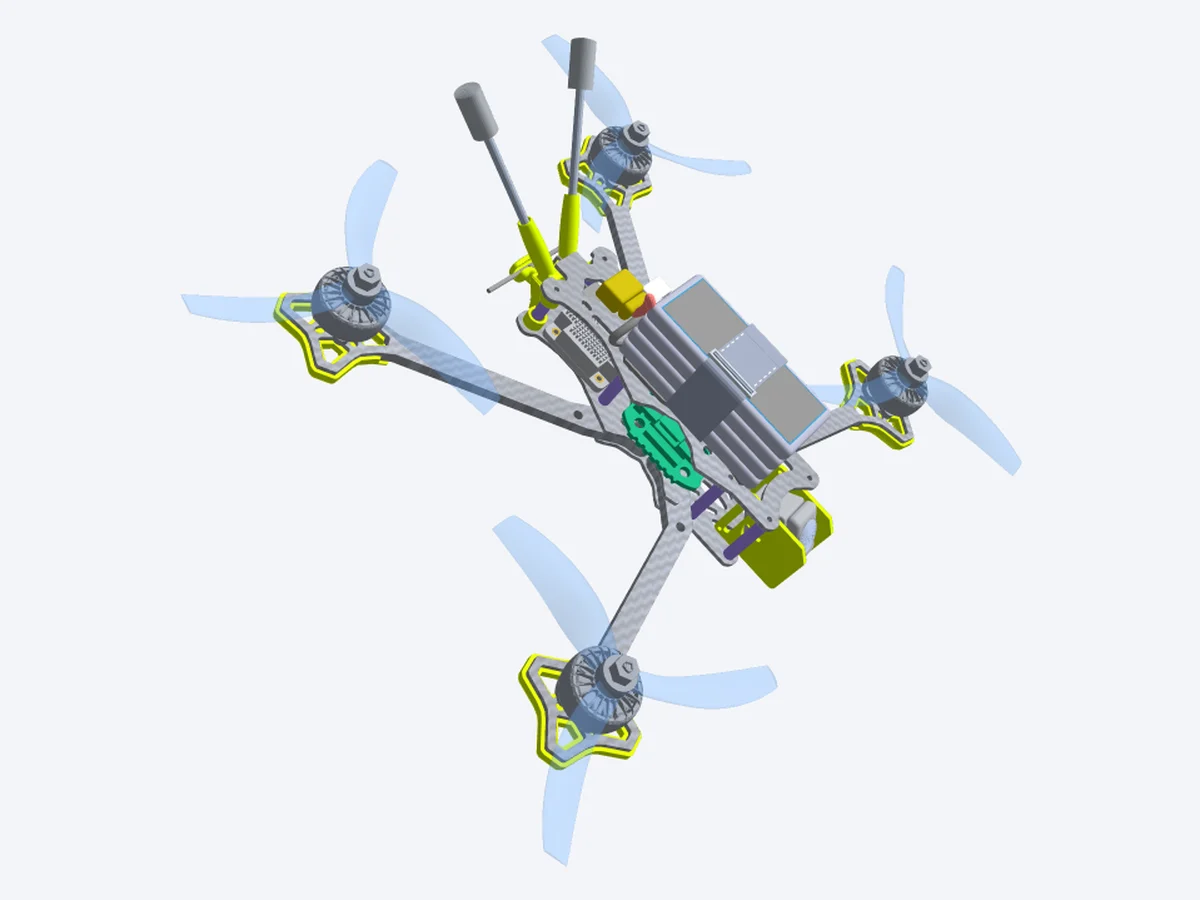
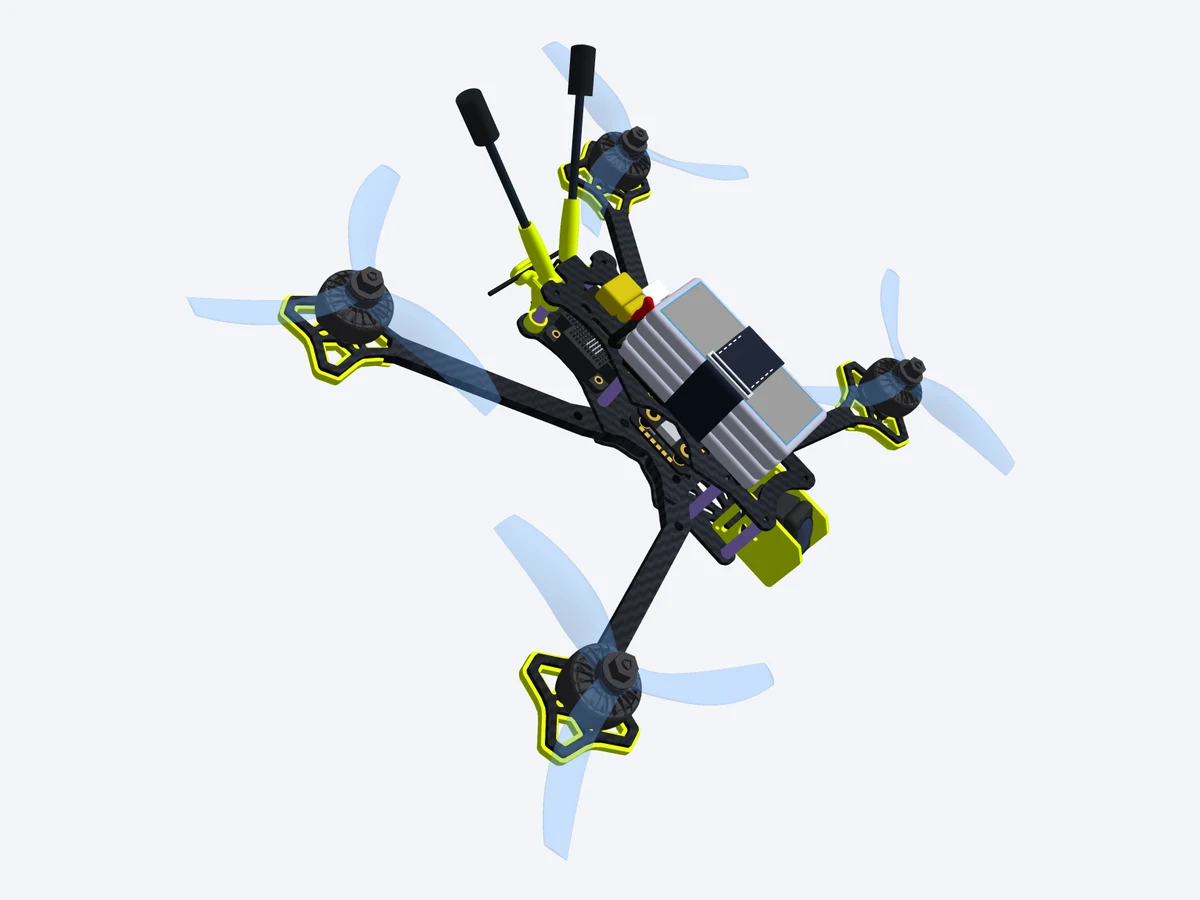
Page d'accueil : modèles réels seulement, Bando et générique avec GoPro sur support TalkTrue, batterie dessus et sangle, Mini Pouces

diff --git a/index.html b/index.html
@@ -158,7 +158,7 @@
     <div class="cartes">
       <div class="carte"><div class="icone">🚀</div><h3>Vitesse max</h3><p>Point d'équilibre poussée / traînée à l'inclinaison de vol : poussée qui baisse avec la vitesse jusqu'à la vitesse de pas de l'hélice, traînée S·C<sub>x</sub> selon l'assiette, densité de l'air du jour.</p></div>
       <div class="carte"><div class="icone">🔋</div><h3>Autonomie par style de vol</h3><p>Courant moyen pondéré par profil de vol (cinématique, freestyle, plein gaz), courbe de décharge propre à la chimie (LiPo, LiHV, Li-ion) et capacité utilisable avant atterrissage. <b>Nouveau</b> : autonomie à la vitesse de croisière de votre choix, traînée comprise, avec le moment de l'alerte OSD.</p></div>
-      <div class="carte"><div class="icone">⚡</div>\1Contrôle de compatibilité avant achat : courant crête moteur contre ESC (continu / burst), batterie (taux C) contre courant total, tension (S) contre KV de référence, connecteur, entraxes de la stack et du VTX, fixation moteur / châssis et hélice / moteur, diamètre d'hélice contre châssis.\2</div>
+      <div class="carte"><div class="icone">⚡</div><h3>Alertes de sécurité</h3><p>Contrôle de compatibilité avant achat : courant crête moteur contre ESC (continu / burst), batterie (taux C) contre courant total, tension (S) contre KV de référence, connecteur, entraxes de la stack et du VTX, fixation moteur / châssis et hélice / moteur, diamètre d'hélice contre châssis.</p></div>
       <div class="carte"><div class="icone">⏱</div><h3>0 → 100 km/h</h3><p>Accélération théorique horizontale et verticale, déduite de la poussée excédentaire et de la masse au décollage (AUW).</p></div>
       <div class="carte"><div class="icone">🧩</div><h3>Plus de 200 châssis</h3><p>Base de châssis référencés : masse, entraxe moteurs, taille et typologie (freestyle, cinewhoop, long range…), filtrable, en Free comme en PRO.</p></div>
       <div class="carte"><div class="icone">🛸</div><h3>Quad X et cinelifter X8</h3><p>Quadrirotor X et cinelifter X8 coaxial (électronique esclave dédiée), dès la version Free.</p></div>
@@ -258,7 +258,7 @@
     <h2>L'assurance d'une configuration <span class="neon">performante et optimisée</span></h2>
     <div class="cartes">
       <div class="carte"><div class="icone">⏱</div><h3>Calcul instantané</h3><p>Configurez votre architecture complète en 30 secondes. Sélectionnez vos composants et visualisez immédiatement l'impact sur la vitesse de pointe, l'autonomie et l'accélération transitoire (0 → 100 km/h).</p></div>
-      <div class="carte"><div class="icone">🎯</div>\1Un modèle prédictif calé sur un vol mesuré (GPS et blackbox) et contrôlé sur un second ; d'autres vols de calage suivent. Les algorithmes intègrent la traînée aérodynamique, l'assiette de l'appareil, les variations de densité de l'air ainsi que le profil de décharge réel de votre batterie.</p></div>
+      <div class="carte"><div class="icone">🎯</div><h3>Fiabilité physique</h3><p>Un modèle prédictif calé sur un vol mesuré (GPS et blackbox) et contrôlé sur un second ; d'autres vols de calage suivent. Les algorithmes intègrent la traînée aérodynamique, l'assiette de l'appareil, les variations de densité de l'air ainsi que le profil de décharge réel de votre batterie.</p></div>
       <div class="carte"><div class="icone">🔌</div><h3>Compatibilité vérifiée</h3><p>Une validation technique stricte avant la commande. Le système vérifie automatiquement la cohérence électrique et mécanique (couplage moteur / ESC / hélice) et génère votre nomenclature matérielle (BOM) optimisée par revendeur.</p></div>
     </div>
   </div>
@@ -303,7 +303,7 @@
           <li><b>7 géométries</b> : X, Dead Cat, Squished X, Stretch X, H-Frame, Racer (Racer 34) et Cinewhoop (CineEX V2), en configuration Quad ou X8 coaxial.</li>
           <li><b>Esquisse paramétrique</b> : esquisse cotée (dessus et face) redessinée à chaque cote modifiée.</li>
           <li><b>Maquette 3D</b> : modèle volumique inclinable, avec la surface frontale projetée calculée à chaque incidence.</li>
-          <li><b>Modèles de référence TALKTRUE</b> (plans DXF, plaques et découpes réelles), toujours à la base du prototype : TALKTRUE X 5″ (révision du TOWA, par défaut), TOWA 5″, Racer « Bob » et Racer 34, Dixi 3″ / 3,5″ (X et Dead Cat), Bando 4″ à 5,1″, Dizzi 3,5″, CineEX V2 ; bras à platine moteur recopiés par symétrie, qui suivent vos cotes.</li>
+          <li><b>Modèles de référence TALKTRUE</b> (plans DXF, plaques et découpes réelles), toujours à la base du prototype : TALKTRUE X 5″ (révision du TOWA, par défaut), TOWA 5″, Racer « Bob » et Racer 34, Dixi 3″ / 3,5″ (X et Dead Cat), Bando 4″ à 5,1″, Dizzi 3,5″, Mini Pouces 3″, CineEX V2 ; bras à platine moteur recopiés par symétrie, qui suivent vos cotes.</li>
           <li><b>Pièces réelles aux cotes du catalogue</b> : stack SpeedyBee, VTX Walksnail / DJI / Caddx / analogiques, moteurs (dont T-Motor F1404 pour les petits formats), récepteur et antennes en T.</li>
           <li><b>Antennes et caméra</b> : support d'antenne manchonné sur les standoffs arrière, antennes standard ou longue portée au nombre choisi, caméra entre deux flancs, objectif 1 mm devant les plaques, angle 15° / 35° / 45° ou celui de votre inclinaison de vol.</li>
           <li><b>Plaques au style du TOWA</b> : contour à oreilles, flancs creusés, perçages de stack 20 × 20 / 25,5 × 25,5 / 30,5 × 30,5 et du VTX, découpes du TOWA et du Dixi, aux cotes de votre prototype.</li>
@@ -317,7 +317,6 @@
           <figure class="visuel"><img src="assets/guide/rendu_details.webp" width="1200" height="900" loading="lazy" alt="Arrière du drone : support d'antenne sur les standoffs, deux antennes DJI O4, VTX et stack"><figcaption>Antennes, VTX, stack</figcaption></figure>
           <figure class="visuel"><img src="assets/guide/rendu_camera.webp" width="1200" height="900" loading="lazy" alt="Caméra FPV entre ses deux flancs de support, objectif 1 mm devant les plaques"><figcaption>Caméra et flancs</figcaption></figure>
         </div>
-        <figure class="visuel sombre"><img src="assets/guide/05_prototype_x.webp" width="838" height="1106" loading="lazy" alt="Géométrie du châssis prototype FPV avec esquisse cotée"><figcaption>Esquisse cotée : TALKTRUE X 5″ (révision du TOWA)</figcaption></figure>
         <div class="trio">
           <figure class="visuel"><img src="assets/guide/proto3d_deadcat.webp" width="1200" height="900" loading="lazy" alt="Prototype Dead Cat généré en 3D, bras et plaques au dessin du TOWA, équipé"><figcaption>Dead Cat</figcaption></figure>
           <figure class="visuel"><img src="assets/guide/proto3d_hframe.webp" width="1200" height="900" loading="lazy" alt="Prototype H-Frame généré en 3D, bras et plaques au dessin du TOWA, équipé"><figcaption>H-Frame</figcaption></figure>
@@ -333,14 +332,18 @@
         <ul>
           <li><b>Plus de 200 châssis</b> en 3D, prêts à équiper : ceux du catalogue, plus les châssis de référence TALKTRUE et les prototypes réglables.</li>
           <li><b>Composez votre drone</b> : moteurs, hélices, stack, VTX, caméra, récepteur, antennes, GPS, batterie, buzzer et condensateur se placent tout seuls.</li>
-          \1\n          <li><b>Charge utile</b> : GoPro, Osmo Action ou Insta360 dans son boîtier TPU, sur la base à 3 doigts ou le support de Johann, à leur place et à leur poids.</li>
+          <li><b>Accessoires des châssis</b> : supports de caméra, d'antenne et de condensateur, comme sur le Bando.</li>
+          <li><b>Charge utile</b> : GoPro, Osmo Action ou Insta360 dans son boîtier TPU, sur la base à 3 doigts ou le support de Johann, à leur place et à leur poids.</li>
           <li><b>Plan 2D coté (DXF)</b> à télécharger pour votre CAO.</li>
           <li><b>Soufflerie</b> directement sur le châssis équipé.</li>
         </ul>
+        <div class="duo" style="margin-top:28px">
+          <figure class="visuel"><img src="assets/guide/mini_pouces.webp" width="1200" height="900" loading="lazy" alt="Mini Pouces 3 pouces de TALKTRUE en 3D, châssis réel équipé"><figcaption>Mini Pouces 3″ · modèle principal du développement</figcaption></figure>
+          <figure class="visuel"><img src="assets/guide/mini_pouces_avant.webp" width="1200" height="900" loading="lazy" alt="Avant du Mini Pouces : caméra dans sa cage"><figcaption>Mini Pouces · caméra dans sa cage</figcaption></figure>
+        </div>
       </div>
       <div>
-        <figure class="visuel"><img src="assets/guide/generique_equipe.webp" width="1200" height="900" loading="lazy" alt="Châssis générique référencé, équipé en 3D : électronique entre les plaques, batterie sur sa mousse"><figcaption>Générique équipé de vos composants</figcaption></figure>
-        <figure class="visuel"><img src="assets/guide/generique_plan_cote.webp" width="1592" height="720" loading="lazy" alt="Plan 2D coté DXF d'un châssis générique"><figcaption>Plan 2D coté, prêt pour la CAO</figcaption></figure>
+        <figure class="visuel"><img src="assets/guide/generique_equipe.webp" width="1200" height="900" loading="lazy" alt="Châssis générique du catalogue (Apex DC5 5 pouces) équipé en 3D : GoPro sur le support GoPro TalkTrue, électronique entre les plaques, batterie 6S tenue par sa sangle"><figcaption>Générique équipé de vos composants, GoPro sur le support TalkTrue</figcaption></figure>
         <div class="duo" style="margin-top:14px">
           <figure class="visuel"><img src="assets/nouveautes/bando_accessoires.webp" width="1200" height="900" loading="lazy" alt="Bando 5 pouces équipé en 3D, châssis gris : GoPro sur son support, caméra DJI O4 dans ses supports, VTX, antennes et batterie LiPo 6S tenue par sa sangle"><figcaption>Bando 5″ équipé</figcaption></figure>
           <figure class="visuel"><img src="assets/nouveautes/buzzer_condensateur.webp" width="1200" height="900" loading="lazy" alt="Bando 5 pouces vu de l'arrière, châssis gris : GoPro, support d'antenne, électronique et batterie LiPo tenue par sa sangle"><figcaption>Bando vu de l'arrière</figcaption></figure>
@@ -364,7 +367,7 @@
       </div>
     </div>
 
-    <div class="fonction">
+    <div class="fonction" style="grid-template-columns:1fr">
       <div>
         <span class="badge">Importation CAO</span>
         <h3>Vos modèles SolidWorks, Fusion 360 ou Onshape</h3>
@@ -374,15 +377,8 @@
           <li><b>Modélisation volumique 3D</b> : les vues en plan (dessus + face ± profil) suffisent pour reconstruire votre drone en 3D.</li>
         </ul>
       </div>
-      <figure class="visuel"><img src="assets/dxf/stl_towa.webp" width="1000" height="535" loading="lazy" alt="Import du STL d'un TOWA 5 pouces : contrôle de l'orientation sur 3 vues"><figcaption>Votre STL : orientation contrôlée sur 3 vues</figcaption></figure>
     </div>
 
-    <h3 class="titre-etapes" style="margin-top:0">Des plans DXF au modèle 3D, en 3 étapes</h3>
-    <div class="etapes-dxf">
-      <figure class="visuel"><img src="assets/dxf/1_plans.webp" width="623" height="575" loading="lazy" alt="Tableau des plans DXF chargés : vue de dessus, vue de face, volume 3D"><figcaption>1 · Vos plans DXF</figcaption></figure>
-      <figure class="visuel sombre"><img src="assets/dxf/2_esquisse_towa.webp" width="508" height="670" loading="lazy" alt="Esquisse cotée remplacée par les plans DXF de dessus et de face d'un TOWA 5 pouces"><figcaption>2 · Ils remplacent l'esquisse, mêmes cotes</figcaption></figure>
-      <figure class="visuel"><img src="assets/dxf/3_volume.webp" width="890" height="482" loading="lazy" alt="Volume 3D d'un drone FPV reconstruit à partir de ses plans DXF"><figcaption>3 · Le volume 3D reconstruit</figcaption></figure>
-    </div>
 
     <div class="fonction inverse">
       <div>
@@ -418,8 +414,8 @@
     <p class="note" style="margin:0">🎬 <b>Rendu vidéo de votre STL</b> : en option avec chaque calcul CFD, le serveur fabrique cette vidéo (1920 × 1080) à partir de votre modèle ; elle se regarde et se télécharge en .mp4 depuis l'app. <b>Nouveau</b>, un second rendu au choix : <b>« tubes »</b> (aperçu dans le chapitre Quad Speeder).</p>
     <div class="cartes" style="margin-top:56px">
       <div class="carte"><div class="icone">🧩</div><h3>Géométrie personnalisée</h3><p>Affranchissez-vous des formes génériques : soumettez l'architecture exacte de votre châssis, fuselage et batterie tels que vous les avez modélisés.</p></div>
-      <div class="carte"><div class="icone">🛡</div>\1Contrôle qualité du maillage (<code>checkMesh</code>), plusieurs maillages de repli (jusqu'à 5 essais, avec puis sans couches limites, le rapport dit lequel est retenu). Critère de convergence : traînée stable à 3 % sur les 100 dernières itérations (1 % et prolongations supplémentaires en exigence maximale). Exclusion stricte des valeurs aberrantes : toute anomalie lève une alerte explicite.\2</div>
-      <div class="carte"><div class="icone">📐</div>\1Jusqu'à 3 incidences par envoi, au degré près ; vitesse jusqu'à 400 km/h (800 km/h pour un Speeder) ; boîte d'air au choix (automatique, compacte ou large), obstruction vérifiée. Deux demandes en même temps, une demande annulée n'est pas comptée.\2</div>
+      <div class="carte"><div class="icone">🛡</div><h3>Validation à chaque étape</h3><p>Contrôle qualité du maillage (<code>checkMesh</code>), plusieurs maillages de repli (jusqu'à 5 essais, avec puis sans couches limites, le rapport dit lequel est retenu). Critère de convergence : traînée stable à 3 % sur les 100 dernières itérations (1 % et prolongations supplémentaires en exigence maximale). Exclusion stricte des valeurs aberrantes : toute anomalie lève une alerte explicite.</p></div>
+      <div class="carte"><div class="icone">📐</div><h3>Simulations multi-incidences</h3><p>Jusqu'à 3 incidences par envoi, au degré près ; vitesse jusqu'à 400 km/h (800 km/h pour un Speeder) ; boîte d'air au choix (automatique, compacte ou large), obstruction vérifiée. Deux demandes en même temps, une demande annulée n'est pas comptée.</p></div>
     </div>
     <p class="note" style="margin-top:28px"><b>Marge des résultats</b> : un résultat CFD qui donne sa marge (95 %) affiche une fourchette de traînée et de vitesse max. Aucune marge n'est inventée : sans intervalle, la fourchette reste « à confirmer ».</p>
     <p class="note" style="margin-top:12px">La marche à suivre complète (lancer le calcul, lire les résultats, animer l'air dans ParaView) est détaillée pas à pas dans le <b>Mode d'emploi</b> de l'app.</p>
@@ -512,7 +508,7 @@
     </figure>
     <ol class="sequence">
       <li>
-        <figure class="visuel"><img src="assets/dxf/stl_v2v.webp" width="1000" height="555" loading="lazy" alt="Import du STL d'un Speeder FPV : contrôle de l'orientation sur trois vues"></figure>
+        <figure class="visuel"><img src="assets/constructions/v2v_solidworks.webp" width="780" height="570" loading="lazy" alt="Modèle SolidWorks du Speeder V2V, exporté en STL pour le calcul CFD"></figure>
         <div><b>1 · Exportation STL</b><p>Exporté depuis SolidWorks, Fusion 360 ou Onshape. Orientation géométrique contrôlée sur 3 vues orthogonales (comme dans un slicer).</p></div>
       </li>
       <li>
@@ -776,7 +772,7 @@
     <details><summary>Qu'est-ce que le calcul CFD ?</summary><p>Un vrai calcul d'écoulement de l'air autour de votre drone, fait avec <b>OpenFOAM</b> (le logiciel CFD libre utilisé dans l'industrie) à partir de votre fichier STL. Vous obtenez la traînée calculée (S·Cx), le Cx équivalent, la portance, une carte de pression 3D et un paquet de fichiers pour ParaView.</p></details>
     <details><summary>Faut-il savoir utiliser OpenFOAM ?</summary><p>Non. Vous chargez votre STL, vous choisissez l'inclinaison et la vitesse, et le serveur de calcul fait tout : réparation du STL, domaine, maillage snappyHexMesh, calcul k-ω SST jusqu'à convergence, contrôles. Rien à installer sur votre ordinateur.</p></details>
     <details><summary>Combien de temps dure un calcul ?</summary><p>Quelques dizaines de minutes par inclinaison, selon la taille du modèle et la file d'attente. Vous pouvez fermer l'app : le calcul continue, le résultat vous attend dans Prototype › Calcul CFD (rubrique « Mes calculs CFD »), et si vous laissez une adresse, un e-mail vous prévient quand les résultats sont prêts.</p></details>
-    <details><summary>Comment voir les résultats dans ParaView ?</summary><p>Chaque calcul fournit un zip pour \1 (gratuit) : surface du drone, lignes de courant et une macro qui fait défiler l'air. Il fournit aussi un zip pour TrueFoam GUI, un dossier d'étude (CSV des S·Cx, forces, paramètres), la vidéo en .mp4 et un bouton « Appliquer ces résultats au calculateur », qui remplace la traînée estimée par celle du CFD. Le pas à pas illustré est dans le Mode d'emploi de l'app.</p></details>
+    <details><summary>Comment voir les résultats dans ParaView ?</summary><p>Chaque calcul fournit un zip pour <a href="https://www.paraview.org/download/" rel="noopener">ParaView</a> (gratuit) : surface du drone, lignes de courant et une macro qui fait défiler l'air. Il fournit aussi un zip pour TrueFoam GUI, un dossier d'étude (CSV des S·Cx, forces, paramètres), la vidéo en .mp4 et un bouton « Appliquer ces résultats au calculateur », qui remplace la traînée estimée par celle du CFD. Le pas à pas illustré est dans le Mode d'emploi de l'app.</p></details>
     <details><summary>Le CFD est-il exact ?</summary><p>C'est un calcul stationnaire (RANS) sans les hélices ni leur souffle, avec des lois de paroi : comptez ±15 à 25 %. Il est idéal pour <b>comparer des formes</b> et voir d'où vient la traînée. La vitesse réelle se confirme par un vol GPS, sur lequel vous pouvez recaler le configurateur.</p></details>
     <details><summary>Et la soufflerie virtuelle ?</summary><p>C'est l'estimation instantanée, avec l'écoulement et le jet des hélices illustrés. Utilisez-la pour explorer, puis le calcul CFD pour trancher.</p></details>
     <details><summary>Quelle différence avec eCalc ?</summary><p>eCalc est une référence pour le calcul pur. TALKTRUE FPV - XRIG Configurateur est une plateforme de conception : calcul CFD de votre propre modèle, composants réels avec prix et liens d'achat, garage de configurations, esquisses cotées, maquettes 3D et import de vos plans de CAO.</p></details>

diff --git a/en/index.html b/en/index.html
@@ -157,7 +157,7 @@
     <div class="cartes">
       <div class="carte"><div class="icone">🚀</div><h3>Top speed</h3><p>Thrust / drag equilibrium at the flight tilt: thrust that drops with speed down to the propeller's pitch speed, S·C<sub>x</sub> drag depending on attitude, today's air density.</p></div>
       <div class="carte"><div class="icone">🔋</div><h3>Flight time by flying style</h3><p>Average current weighted by flight profile (cinematic, freestyle, full throttle), discharge curve specific to the chemistry (LiPo, LiHV, Li-ion) and usable capacity before landing. <b>New</b>: endurance at the cruise speed of your choice, drag included, with the moment the OSD warning shows.</p></div>
-      <div class="carte"><div class="icone">⚡</div>\1Compatibility check before buying: motor peak current vs ESC (continuous / burst), battery (C rating) vs total current, voltage (S) vs reference KV, connector, stack and VTX mounting patterns, motor / frame and prop / motor fit, prop diameter vs frame.\2</div>
+      <div class="carte"><div class="icone">⚡</div><h3>Safety alerts</h3><p>Compatibility check before buying: motor peak current vs ESC (continuous / burst), battery (C rating) vs total current, voltage (S) vs reference KV, connector, stack and VTX mounting patterns, motor / frame and prop / motor fit, prop diameter vs frame.</p></div>
       <div class="carte"><div class="icone">⏱</div><h3>0 → 100 km/h</h3><p>Theoretical horizontal and vertical acceleration, derived from excess thrust and all-up weight (AUW).</p></div>
       <div class="carte"><div class="icone">🧩</div><h3>Over 200 frames</h3><p>Database of listed frames: weight, motor spacing, size and type (freestyle, cinewhoop, long range…), filterable, in Free and PRO.</p></div>
       <div class="carte"><div class="icone">🛸</div><h3>Quad X and X8 cinelifter</h3><p>X quadcopter and coaxial X8 cinelifter (dedicated slave electronics), from the Free version.</p></div>
@@ -257,7 +257,7 @@
     <h2>The assurance of a <span class="neon">high-performance, optimised build</span></h2>
     <div class="cartes">
       <div class="carte"><div class="icone">⏱</div><h3>Instant calculation</h3><p>Configure your complete architecture in 30 seconds. Select your components and instantly see the impact on top speed, flight time and transient acceleration (0 → 100 km/h).</p></div>
-      <div class="carte"><div class="icone">🎯</div>\1A predictive model calibrated on a measured flight (GPS and blackbox) and checked on a second one; more calibration flights will follow. The algorithms include aerodynamic drag, the aircraft's attitude, air density variations and your battery's real discharge profile.</p></div>
+      <div class="carte"><div class="icone">🎯</div><h3>Physical reliability</h3><p>A predictive model calibrated on a measured flight (GPS and blackbox) and checked on a second one; more calibration flights will follow. The algorithms include aerodynamic drag, the aircraft's attitude, air density variations and your battery's real discharge profile.</p></div>
       <div class="carte"><div class="icone">🔌</div><h3>Verified compatibility</h3><p>Strict technical validation before you order. The system automatically checks electrical and mechanical consistency (motor / ESC / prop matching) and builds your bill of materials (BOM), optimised by retailer.</p></div>
     </div>
   </div>
@@ -302,7 +302,7 @@
           <li><b>7 geometries</b>: X, Dead Cat, Squished X, Stretch X, H-Frame, Racer (Racer 34) and Cinewhoop (CineEX V2), in Quad or coaxial X8 configuration.</li>
           <li><b>Parametric sketch</b>: dimensioned sketch (top and front) redrawn whenever a dimension changes.</li>
           <li><b>3D model</b>: tiltable solid model, with the projected frontal area computed at every incidence.</li>
-          <li><b>TALKTRUE reference models</b> (DXF plans, real plates and cut-outs), always the base of the prototype: TALKTRUE X 5″ (TOWA revision, default), TOWA 5″, Racer “Bob” and Racer 34, Dixi 3″ / 3.5″ (X and Dead Cat), Bando 4″ to 5.1″, Dizzi 3.5″, CineEX V2; arms with motor mounts mirrored by symmetry, following your dimensions.</li>
+          <li><b>TALKTRUE reference models</b> (DXF plans, real plates and cut-outs), always the base of the prototype: TALKTRUE X 5″ (TOWA revision, default), TOWA 5″, Racer “Bob” and Racer 34, Dixi 3″ / 3.5″ (X and Dead Cat), Bando 4″ to 5.1″, Dizzi 3.5″, Mini Pouces 3″, CineEX V2; arms with motor mounts mirrored by symmetry, following your dimensions.</li>
           <li><b>Real parts at catalogue dimensions</b>: SpeedyBee stack, Walksnail / DJI / Caddx / analog VTX, motors (including the T-Motor F1404 for small sizes), receiver and T antennas.</li>
           <li><b>Antennas and camera</b>: antenna mount sleeved on the rear standoffs, standard or long-range antennas in the chosen number, camera between two side plates, lens 1 mm proud of the plates, 15° / 35° / 45° tilt or your flight angle.</li>
           <li><b>TOWA-style plates</b>: eared outline, scalloped sides, 20 × 20 / 25.5 × 25.5 / 30.5 × 30.5 stack holes and VTX holes, TOWA and Dixi cut-outs, at your prototype's dimensions.</li>
@@ -316,7 +316,6 @@
           <figure class="visuel"><img src="../assets/guide/rendu_details.webp" width="1200" height="900" loading="lazy" alt="Rear of the drone: antenna mount on the standoffs, two DJI O4 antennas, VTX and stack"><figcaption>Antennas, VTX, stack</figcaption></figure>
           <figure class="visuel"><img src="../assets/guide/rendu_camera.webp" width="1200" height="900" loading="lazy" alt="FPV camera between its two side plates, lens 1 mm proud of the plates"><figcaption>Camera and side plates</figcaption></figure>
         </div>
-        <figure class="visuel sombre"><img src="../assets/guide/05_prototype_x.webp" width="838" height="1106" loading="lazy" alt="FPV prototype frame geometry with dimensioned sketch"><figcaption>Dimensioned sketch: TALKTRUE X 5″ (TOWA revision)</figcaption></figure>
         <div class="trio">
           <figure class="visuel"><img src="../assets/guide/proto3d_deadcat.webp" width="1200" height="900" loading="lazy" alt="Dead Cat prototype generated in 3D, TOWA-style arms and plates, fitted out"><figcaption>Dead Cat</figcaption></figure>
           <figure class="visuel"><img src="../assets/guide/proto3d_hframe.webp" width="1200" height="900" loading="lazy" alt="H-Frame prototype generated in 3D, TOWA-style arms and plates, fitted out"><figcaption>H-Frame</figcaption></figure>
@@ -332,14 +331,18 @@
         <ul>
           <li><b>200+ frames</b> in 3D, ready to fit out: the catalogue frames, plus the TALKTRUE reference frames and adjustable prototypes.</li>
           <li><b>Build your quad</b>: motors, props, stack, VTX, camera, receiver, antennas, GPS, battery, buzzer and capacitor place themselves.</li>
-          \1\n          <li><b>Payload</b>: GoPro, Osmo Action or Insta360 in its TPU case, on the 3-finger base or Johann's mount, in place and at their weight.</li>
+          <li><b>Frame accessories</b>: camera, antenna and capacitor mounts, as on the Bando.</li>
+          <li><b>Payload</b>: GoPro, Osmo Action or Insta360 in its TPU case, on the 3-finger base or Johann's mount, in place and at their weight.</li>
           <li><b>Dimensioned 2D drawing (DXF)</b> to download for your CAD.</li>
           <li><b>Wind tunnel</b> straight on the fitted-out frame.</li>
         </ul>
+        <div class="duo" style="margin-top:28px">
+          <figure class="visuel"><img src="../assets/guide/mini_pouces.webp" width="1200" height="900" loading="lazy" alt="TALKTRUE Mini Pouces 3-inch in 3D, real frame fitted out"><figcaption>Mini Pouces 3″ · main development model</figcaption></figure>
+          <figure class="visuel"><img src="../assets/guide/mini_pouces_avant.webp" width="1200" height="900" loading="lazy" alt="Front of the Mini Pouces: camera in its cage"><figcaption>Mini Pouces · camera in its cage</figcaption></figure>
+        </div>
       </div>
       <div>
-        <figure class="visuel"><img src="../assets/guide/generique_equipe.webp" width="1200" height="900" loading="lazy" alt="Catalogue frame fitted out in 3D"><figcaption>Generic frame with your parts</figcaption></figure>
-        <figure class="visuel"><img src="../assets/guide/generique_plan_cote.webp" width="1592" height="720" loading="lazy" alt="Dimensioned DXF drawing of a generic frame"><figcaption>Dimensioned 2D drawing</figcaption></figure>
+        <figure class="visuel"><img src="../assets/guide/generique_equipe.webp" width="1200" height="900" loading="lazy" alt="Catalogue frame (Apex DC5 5-inch) fitted out in 3D: GoPro on the TalkTrue GoPro mount, electronics between the plates, 6S battery held by its strap"><figcaption>Generic frame with your parts, GoPro on the TalkTrue mount</figcaption></figure>
         <div class="duo" style="margin-top:14px">
           <figure class="visuel"><img src="../assets/nouveautes/bando_accessoires.webp" width="1200" height="900" loading="lazy" alt="Bando 5-inch fitted out in 3D, grey frame: GoPro on its mount, DJI O4 camera in its mounts, VTX, antennas and 6S LiPo held by its strap"><figcaption>Bando 5″ fitted out</figcaption></figure>
           <figure class="visuel"><img src="../assets/nouveautes/buzzer_condensateur.webp" width="1200" height="900" loading="lazy" alt="Bando 5-inch seen from the rear, grey frame: GoPro, antenna mount, electronics and LiPo held by its strap"><figcaption>Bando from the rear</figcaption></figure>
@@ -363,7 +366,7 @@
       </div>
     </div>
 
-    <div class="fonction">
+    <div class="fonction" style="grid-template-columns:1fr">
       <div>
         <span class="badge">CAD import</span>
         <h3>Your SolidWorks, Fusion 360 or Onshape models</h3>
@@ -373,15 +376,8 @@
           <li><b>3D volume modelling</b>: the plan views (top + front ± side) are enough to rebuild your drone in 3D.</li>
         </ul>
       </div>
-      <figure class="visuel"><img src="../assets/dxf/stl_towa.webp" width="1000" height="535" loading="lazy" alt="STL import of a 5-inch TOWA: orientation checked on 3 views"><figcaption>Your STL: orientation checked on 3 views</figcaption></figure>
     </div>
 
-    <h3 class="titre-etapes" style="margin-top:0">From DXF drawings to a 3D model, in 3 steps</h3>
-    <div class="etapes-dxf">
-      <figure class="visuel"><img src="../assets/dxf/1_plans.webp" width="623" height="575" loading="lazy" alt="Loaded DXF drawings table: top view, front view, 3D volume"><figcaption>1 · Your DXF drawings</figcaption></figure>
-      <figure class="visuel sombre"><img src="../assets/dxf/2_esquisse_towa.webp" width="508" height="670" loading="lazy" alt="Dimensioned sketch replaced by the top and front DXF drawings of a TOWA 5-inch"><figcaption>2 · They replace the sketch, same dimensions</figcaption></figure>
-      <figure class="visuel"><img src="../assets/dxf/3_volume.webp" width="890" height="482" loading="lazy" alt="3D volume of an FPV drone rebuilt from its DXF drawings"><figcaption>3 · The rebuilt 3D volume</figcaption></figure>
-    </div>
 
     <div class="fonction inverse">
       <div>
@@ -417,8 +413,8 @@
     <p class="note" style="margin:0">🎬 <b>Video render of your STL</b>: optional with every CFD run, the server makes this video (1920 × 1080) from your model; watch it and download it as .mp4 from the app. <b>New</b>: a second render to choose from: <b>“tubes”</b> (preview in the Quad Speeder chapter).</p>
     <div class="cartes" style="margin-top:56px">
       <div class="carte"><div class="icone">🧩</div><h3>Custom geometry</h3><p>No generic shapes: submit the exact architecture of your frame, fuselage and battery as you modelled them.</p></div>
-      <div class="carte"><div class="icone">🛡</div>\1Mesh quality check (<code>checkMesh</code>), several fallback meshes (up to 5 attempts, with then without boundary layers; the report says which one was kept). Convergence criterion: drag stable within 3 % over the last 100 iterations (1 % and extra extensions at maximum accuracy). Strict rejection of outliers: any anomaly raises an explicit alert.\2</div>
-      <div class="carte"><div class="icone">📐</div>\1Up to 3 incidences per request, to the degree; speed up to 400 km/h (800 km/h for a Speeder); air box of your choice (automatic, compact or large), blockage checked. Two requests at a time; a cancelled request is not counted.\2</div>
+      <div class="carte"><div class="icone">🛡</div><h3>Validated at every step</h3><p>Mesh quality check (<code>checkMesh</code>), several fallback meshes (up to 5 attempts, with then without boundary layers; the report says which one was kept). Convergence criterion: drag stable within 3 % over the last 100 iterations (1 % and extra extensions at maximum accuracy). Strict rejection of outliers: any anomaly raises an explicit alert.</p></div>
+      <div class="carte"><div class="icone">📐</div><h3>Multi-incidence runs</h3><p>Up to 3 incidences per request, to the degree; speed up to 400 km/h (800 km/h for a Speeder); air box of your choice (automatic, compact or large), blockage checked. Two requests at a time; a cancelled request is not counted.</p></div>
     </div>
     <p class="note" style="margin-top:28px"><b>Result margin</b>: a CFD result that carries its margin (95 %) shows a range for drag and top speed. No margin is ever made up: without an interval, the range stays “to be confirmed”.</p>
     <p class="note" style="margin-top:12px">The full step-by-step guide (launch the run, read the results, animate the air in ParaView) is in the app's <b>user guide</b>.</p>
@@ -510,7 +506,7 @@
     </figure>
     <ol class="sequence">
       <li>
-        <figure class="visuel"><img src="../assets/dxf/stl_v2v.webp" width="1000" height="555" loading="lazy" alt="STL import of an FPV Speeder: orientation checked on three views"></figure>
+        <figure class="visuel"><img src="../assets/constructions/v2v_solidworks.webp" width="780" height="570" loading="lazy" alt="SolidWorks model of the V2V Speeder, exported as STL for the CFD run"></figure>
         <div><b>1 · STL export</b><p>Exported from SolidWorks, Fusion 360 or Onshape. Geometric orientation checked on 3 orthogonal views (as in a slicer).</p></div>
       </li>
       <li>
@@ -773,7 +769,7 @@
     <details><summary>What is the CFD simulation?</summary><p>A real simulation of the airflow around your drone, run with <b>OpenFOAM</b> (the open-source CFD software used in industry) from your STL file. You get the computed drag area (S·Cd), the equivalent drag coefficient, lift, a 3D pressure map and a file pack for ParaView.</p></details>
     <details><summary>Do I need to know OpenFOAM?</summary><p>No. Upload your STL, pick the tilt and speed, and the compute server does everything: STL repair, domain, snappyHexMesh meshing, k-ω SST solve until convergence, checks. Nothing to install on your computer.</p></details>
     <details><summary>How long does a run take?</summary><p>A few tens of minutes per tilt, depending on the model size and the queue. You can close the app: the run continues, the result waits for you in Prototype › Calcul CFD (“Mes calculs CFD”), and if you leave an e-mail address the server tells you when the results are ready.</p></details>
-    <details><summary>How do I view the results in ParaView?</summary><p>Every run comes with a zip for \1 (free): drone surface, streamlines and a macro that makes the air flow. It also provides a zip for TrueFoam GUI, a study folder (CSV of S·Cx, forces, parameters), the video as .mp4 and an “Apply these results to the calculator” button that replaces the estimated drag with the CFD one. The illustrated step-by-step is in the app's user guide.</p></details>
+    <details><summary>How do I view the results in ParaView?</summary><p>Every run comes with a zip for <a href="https://www.paraview.org/download/" rel="noopener">ParaView</a> (free): drone surface, streamlines and a macro that makes the air flow. It also provides a zip for TrueFoam GUI, a study folder (CSV of S·Cx, forces, parameters), the video as .mp4 and an “Apply these results to the calculator” button that replaces the estimated drag with the CFD one. The illustrated step-by-step is in the app's user guide.</p></details>
     <details><summary>Is the CFD exact?</summary><p>It is a steady (RANS) simulation without the propellers or their slipstream, with wall functions: allow ±15 to 25 %. It's ideal to <b>compare shapes</b> and see where drag comes from. Real speed is confirmed by a GPS flight, on which you can recalibrate the configurator.</p></details>
     <details><summary>And the virtual wind tunnel?</summary><p>It's the instant estimate, with the airflow and prop slipstream illustrated. Use it to explore, then CFD to settle it.</p></details>
     <details><summary>How is it different from eCalc?</summary><p>eCalc is a reference for pure calculation. TALKTRUE FPV - XRIG Configurateur is a design platform: CFD of your own model, real parts with prices and shop links, a build garage, dimensioned sketches, 3D models and import of your CAD drawings.</p></details>
